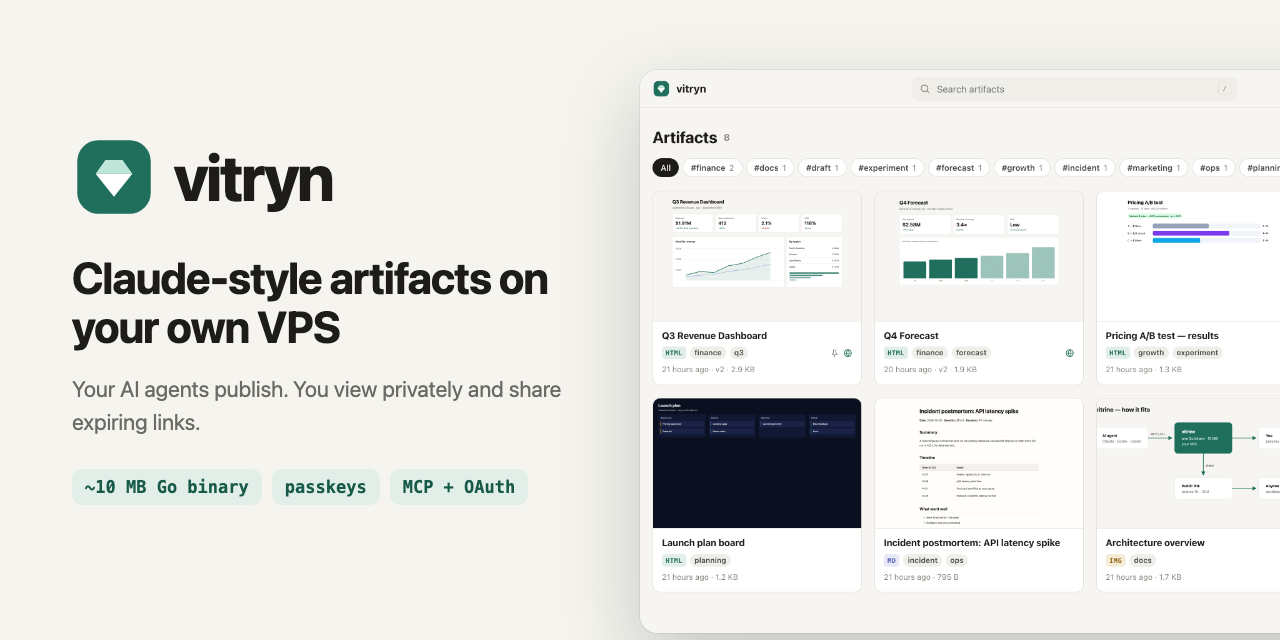
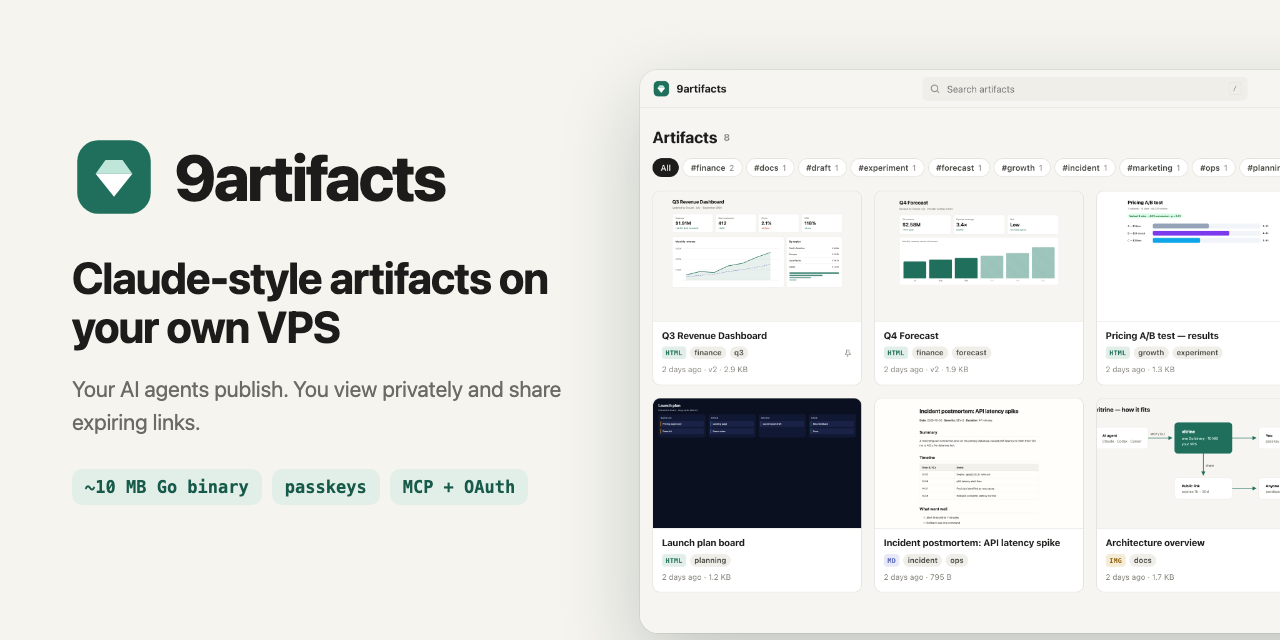
docs: re-shoot images as 9artifacts; FAQ: not affiliated with 9Router

diff --git a/README.md b/README.md
@@ -191,6 +191,10 @@ Report vulnerabilities privately; see [SECURITY.md](SECURITY.md).
 (free `*.ts.net` HTTPS, no domain needed) or a Cloudflare Tunnel, or use Oracle Cloud Always
 Free or a Google Cloud `e2-micro`. See [docs/deploy.md](docs/deploy.md#free-hosting).
 
+**Is this related to 9Router?** No. The name is a friendly nod to
+[9Router](https://github.com/decolua/9router), which many of us use with the same agents, but
+9artifacts is an independent project with no affiliation.
+
 **Multiple users?** Not yet. 9artifacts is single-owner by design; share with others through expiring links.
 
 **Where is my data?** Everything lives in one directory: a `9artifacts.json` index plus your files under
